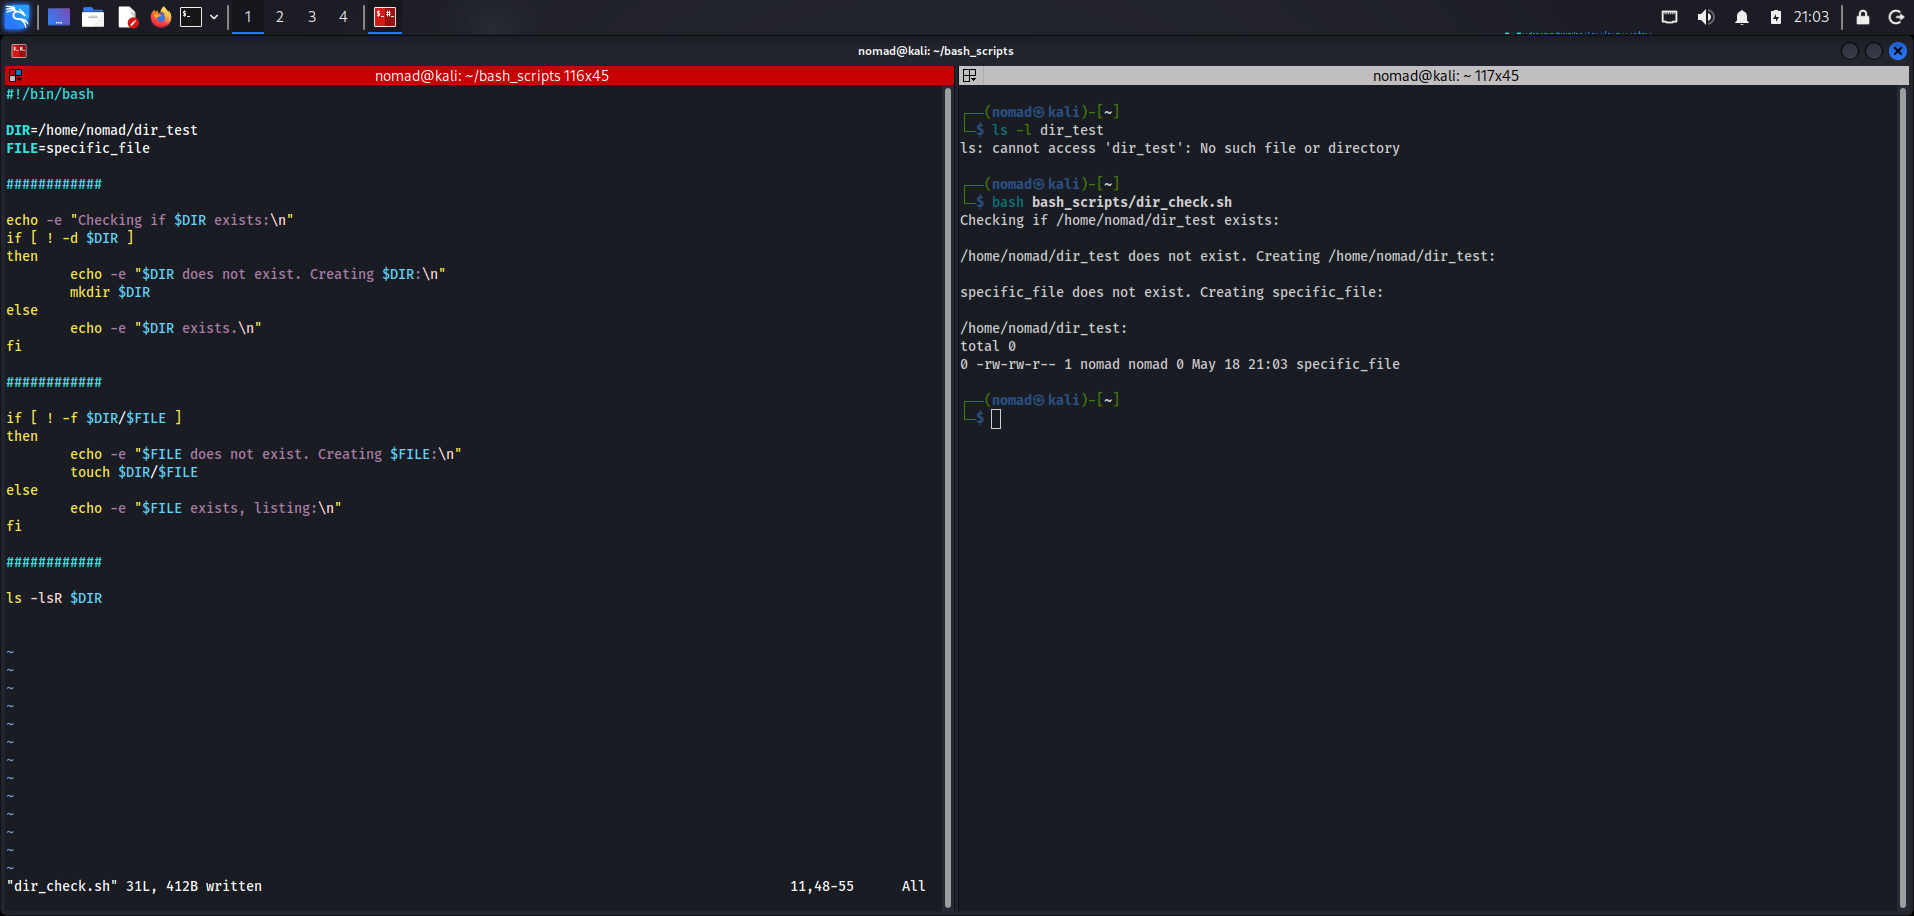
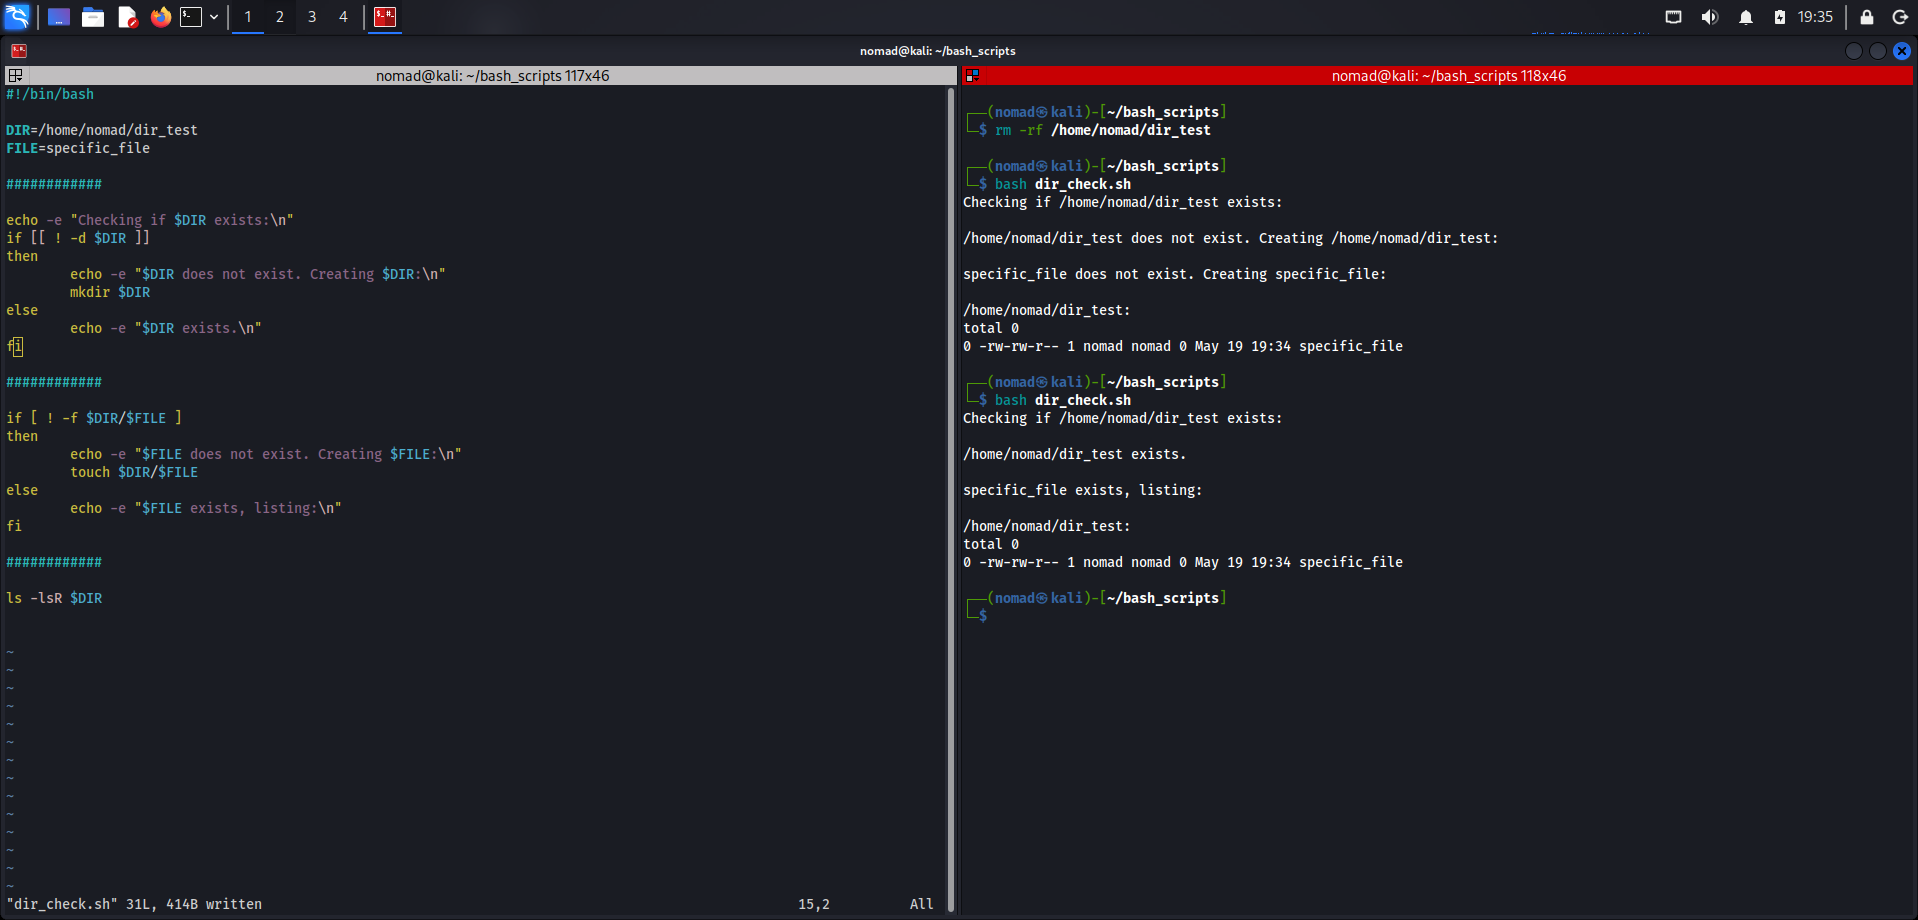
typofix

diff --git a/05-scripting-projects/bash/README.md b/05-scripting-projects/bash/README.md
@@ -19,4 +19,4 @@ Calculates and displays umask configuration based on either argument or system c
 
 **Output:**
 
-![umask_calk output](../../06-assets/images/bash_umask_calc.png)
+![umask_calc output](../../06-assets/images/bash_umask_calc.png)
